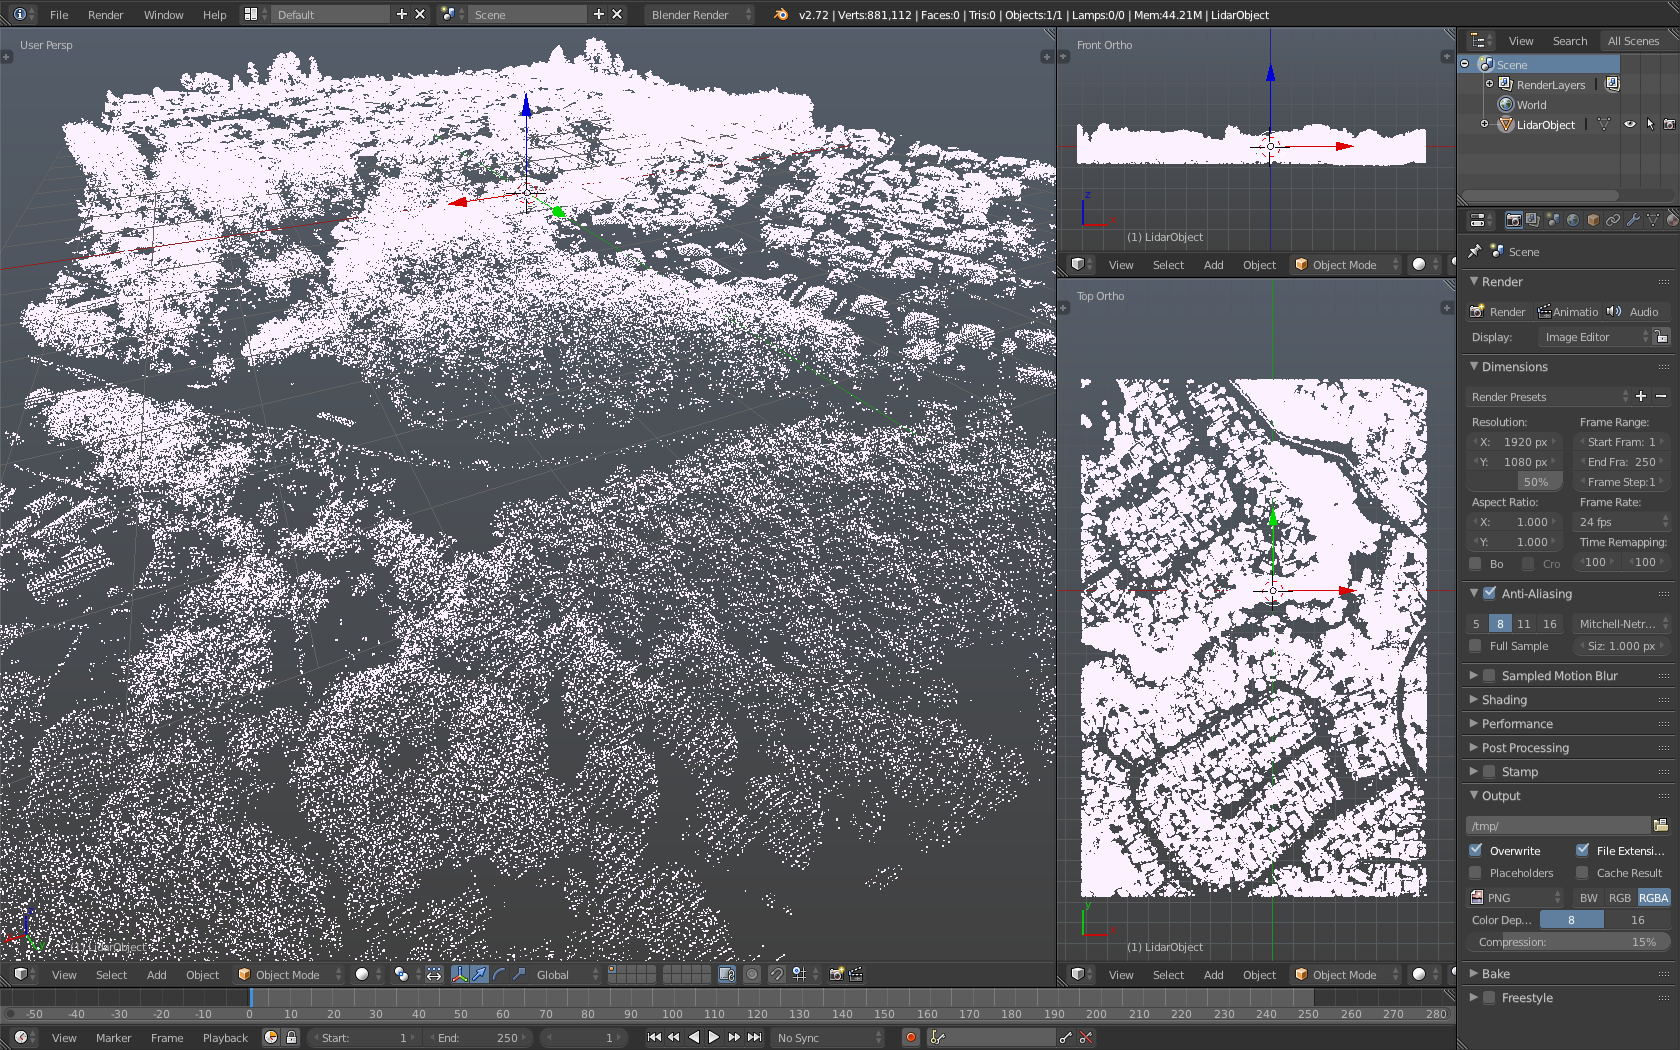
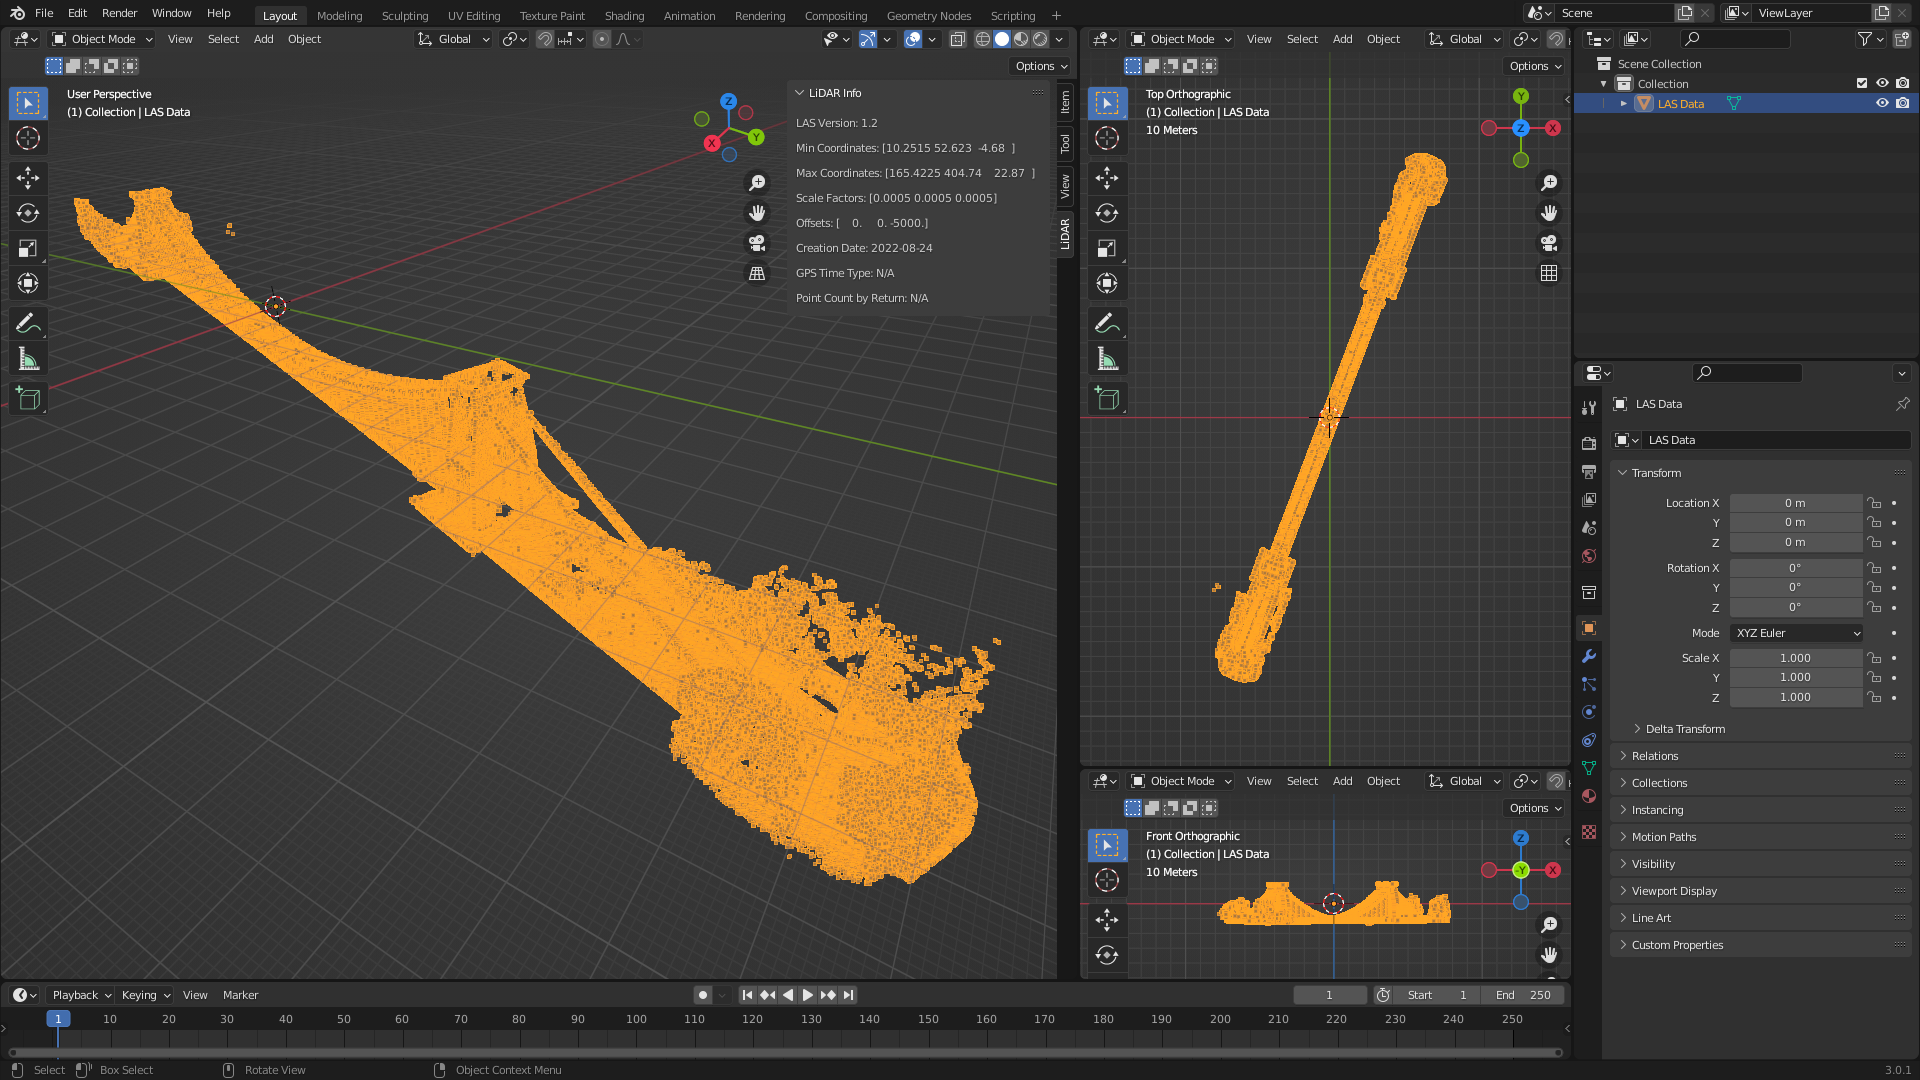
Added LiDAR Info Panel to display import data for object.

diff --git a/__init___.py b/__init___.py
@@ -31,6 +31,12 @@ from bpy.props import StringProperty
 from bpy.types import Operator
 from mathutils import Vector
 
+def get_attribute(header, attr_name, default="N/A"):
+    if hasattr(header, attr_name):
+        return str(getattr(header, attr_name))
+    else:
+        return default
+
 class IMPORT_OT_las_data(Operator, ImportHelper):
     bl_idname = "import_scene.las_data"
     bl_label = "Import LAS/LAZ data"
@@ -38,7 +44,6 @@ class IMPORT_OT_las_data(Operator, ImportHelper):
 
     filename_ext = ".las;.laz"  # Add support for LAZ files
     filter_glob: StringProperty(default="*.las;*.laz", options={'HIDDEN'})  # Update the filter_glob to include LAZ files
-
 
 class IMPORT_OT_las_data(Operator, ImportHelper):
     bl_idname = "import_scene.las_data"
@@ -57,20 +62,41 @@ class IMPORT_OT_las_data(Operator, ImportHelper):
             points = np.array([(point['X'] * infile.header.x_scale + infile.header.x_offset,
                                 point['Y'] * infile.header.y_scale + infile.header.y_offset,
                                 point['Z'] * infile.header.z_scale + infile.header.z_offset)
-                            for point in all_points])
+                                for point in all_points])
+
+            # Prepare LiDAR info
+            lidar_info = {
+                'filepath': self.filepath,
+                'point_format': infile.header.point_format,
+                'point_count': num_points_to_read,
+                'header': infile.header
+            }
 
         # Import LAS points as a mesh
-        self.import_points_as_mesh(context, points)
+        self.import_points_as_mesh(context, points, lidar_info)
 
         return {'FINISHED'}
 
-    def import_points_as_mesh(self, context, points):
+    def import_points_as_mesh(self, context, points, lidar_info):
         # Create a new mesh object
         mesh = bpy.data.meshes.new("LAS Data")
         obj = bpy.data.objects.new("LAS Data", mesh)
 
         # Link the mesh to the scene
         context.collection.objects.link(obj)
+    
+        # Store LiDAR info in the object as separate custom properties
+        obj['lidar_filepath'] = lidar_info['filepath']
+        obj['lidar_point_format'] = lidar_info['point_format'].id
+        obj['lidar_point_count'] = lidar_info['point_count']
+        obj['lidar_version'] = get_attribute(lidar_info['header'], 'version')
+        obj['lidar_min'] = get_attribute(lidar_info['header'], 'min')
+        obj['lidar_max'] = get_attribute(lidar_info['header'], 'max')
+        obj['lidar_scale'] = get_attribute(lidar_info['header'], 'scale')
+        obj['lidar_offset'] = get_attribute(lidar_info['header'], 'offset')
+        obj['lidar_creation_date'] = get_attribute(lidar_info['header'], 'creation_date')
+        obj['lidar_gps_time_type'] = get_attribute(lidar_info['header'], 'gps_time_type')
+        obj['lidar_point_count_by_return'] = get_attribute(lidar_info['header'], 'point_count_by_return')
 
         # Create mesh vertices from points
         mesh.from_pydata(points, [], [])
@@ -88,15 +114,44 @@ class IMPORT_OT_las_data(Operator, ImportHelper):
         # Update mesh
         mesh.update()
 
+class LIDAR_PT_InfoPanel(bpy.types.Panel):
+    bl_label = "LiDAR Info"
+    bl_idname = "LIDAR_PT_InfoPanel"
+    bl_space_type = 'VIEW_3D'
+    bl_region_type = 'UI'
+    bl_category = 'LiDAR'
+
+    def draw(self, context):
+        layout = self.layout
+
+        # Retrieve custom properties from the object
+        obj = context.active_object
+        if obj and obj.get('lidar_filepath') and obj.get('lidar_point_format') and obj.get('lidar_point_count'):
+
+            # Display additional attributes with default values if not found
+            layout.label(text=f"Point Format: {obj.get('lidar_point_format', 'N/A')}")
+            layout.label(text=f"LAS Version: {obj.get('lidar_version', 'N/A')}")
+            layout.label(text=f"Min Coordinates: {obj.get('lidar_min', 'N/A')}")
+            layout.label(text=f"Max Coordinates: {obj.get('lidar_max', 'N/A')}")
+            layout.label(text=f"Scale Factors: {obj.get('lidar_scale', 'N/A')}")
+            layout.label(text=f"Offsets: {obj.get('lidar_offset', 'N/A')}")
+            layout.label(text=f"Creation Date: {obj.get('lidar_creation_date', 'N/A')}")
+            layout.label(text=f"GPS Time Type: {obj.get('lidar_gps_time_type', 'N/A')}")
+            layout.label(text=f"Point Count by Return: {obj.get('lidar_point_count_by_return', 'N/A')}")
+        else:
+            layout.label(text="No LiDAR data available")
+
 def menu_func_import(self, context):
     self.layout.operator(IMPORT_OT_las_data.bl_idname, text="LAS/LAZ data (.las, .laz)")
 
 def register():
     bpy.utils.register_class(IMPORT_OT_las_data)
+    bpy.utils.register_class(LIDAR_PT_InfoPanel)
     bpy.types.TOPBAR_MT_file_import.append(menu_func_import)
 
 def unregister():
     bpy.utils.unregister_class(IMPORT_OT_las_data)
+    bpy.utils.unregister_class(LIDAR_PT_InfoPanel)
     bpy.types.TOPBAR_MT_file_import.remove(menu_func_import)
 
 if __name__ == "__main__":
